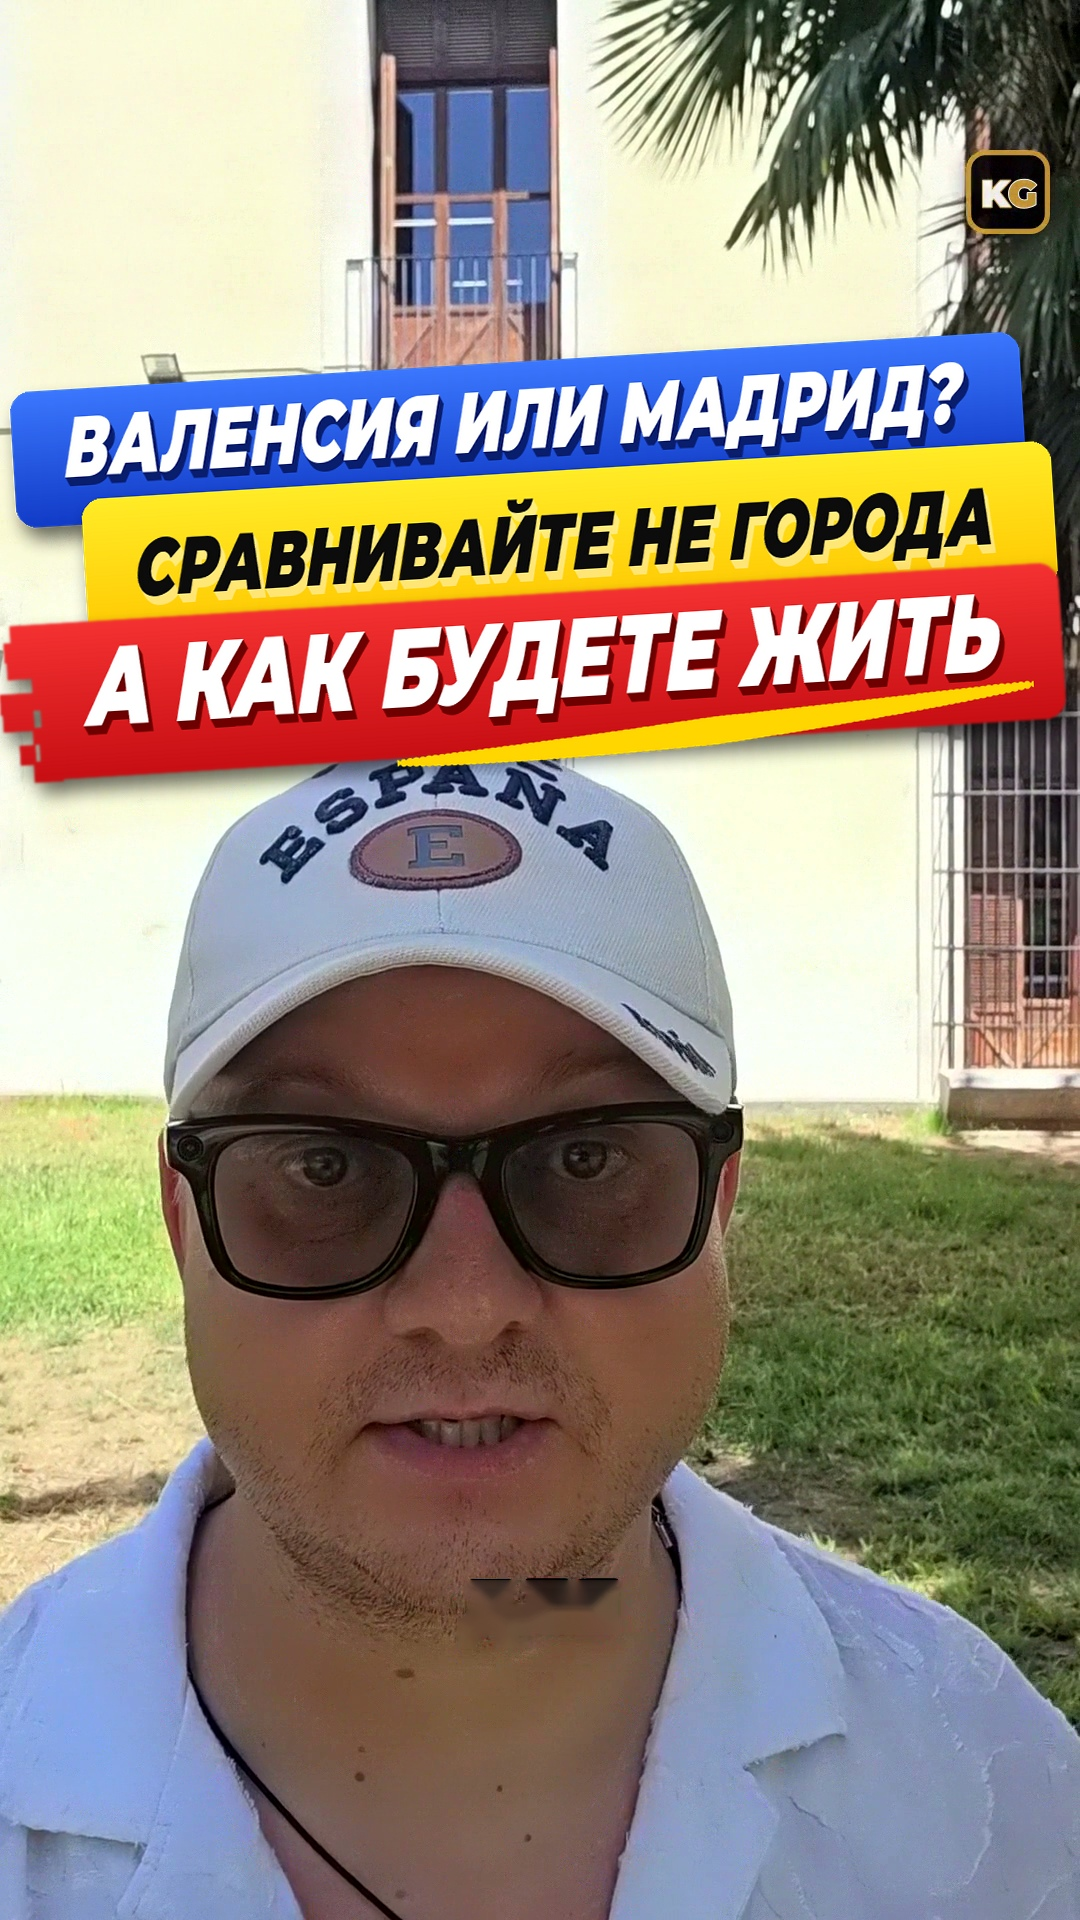
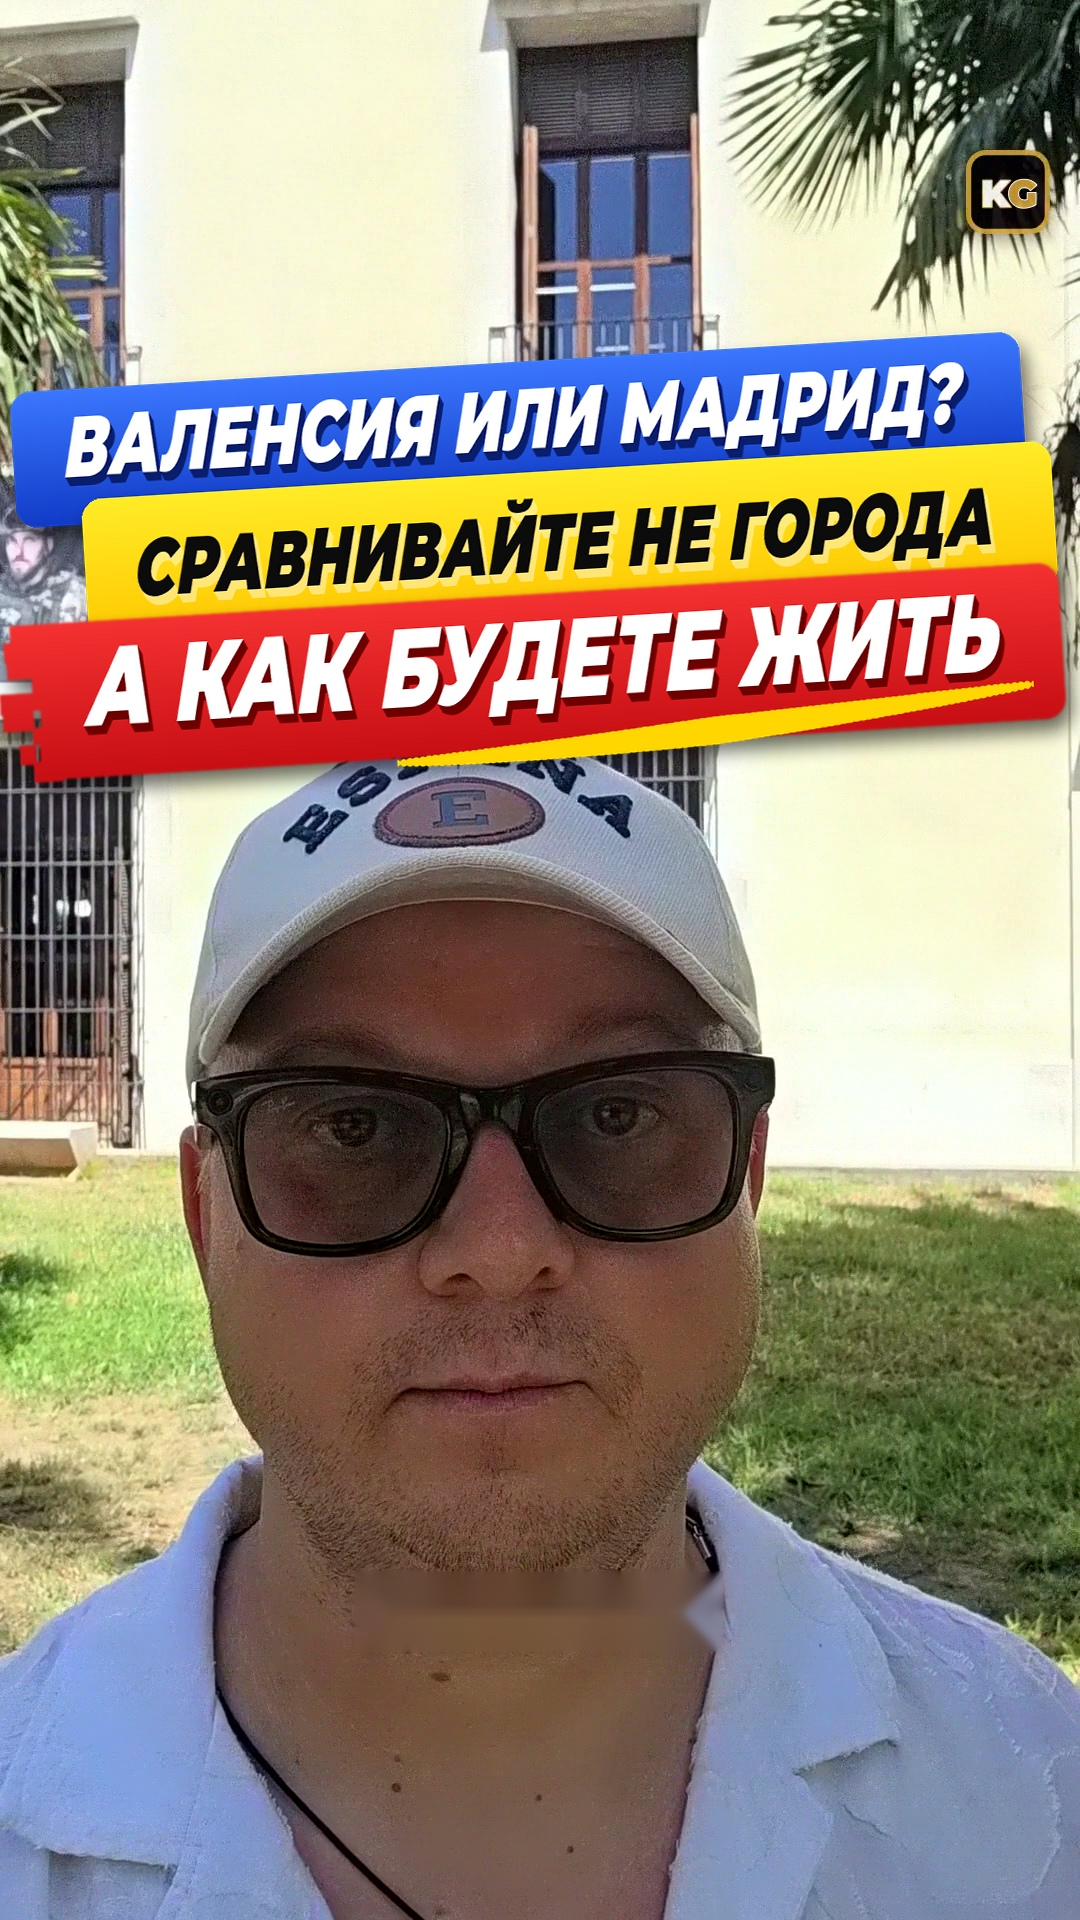
Обложки: перезапуски 06, 48, 53, 54 — кадры с закрытым ртом, стирание жёлтых субтитров; Гибридная — кадр с открытыми глазами
Claude-Session: https://claude.ai/code/session_01RwUHVhvSeiUJ2CG8EtQ3bq

diff --git a/hf/plashki6.py b/hf/plashki6.py
@@ -172,6 +172,13 @@ def erase_subs(src, y0):
     for i in range(1, n):                       # строка субтитров: широкая и невысокая
         x, y, w, h, a = st[i]
         if w > 60 and h < 200 and w > 1.5 * h: keep[lab == i] = 1
+    # 24.11: жёлтые субтитры без тёмной обводки — ярко-жёлтая строка, отдельно от зелени
+    yel = ((h_ > 20) & (h_ < 36) & (s_ > 190) & (v_ > 200)).astype(np.uint8)
+    yl = cv2.morphologyEx(cv2.dilate(yel, np.ones((5, 5), np.uint8)), cv2.MORPH_CLOSE, np.ones((9, 25), np.uint8))
+    n2, lab2, st2, _ = cv2.connectedComponentsWithStats(yl)
+    for i in range(1, n2):
+        x, y, w, h, a_ = st2[i]
+        if w > 80 and 25 < h < 180 and w > 2 * h and yel[y:y + h, x:x + w].mean() > 0.12: keep[lab2 == i] = 1
     mask = cv2.dilate(keep, np.ones((11, 11), np.uint8)) * 255
     if mask.mean() < 0.3: return src
     full = np.zeros(arr.shape[:2], np.uint8); full[y0:] = mask
